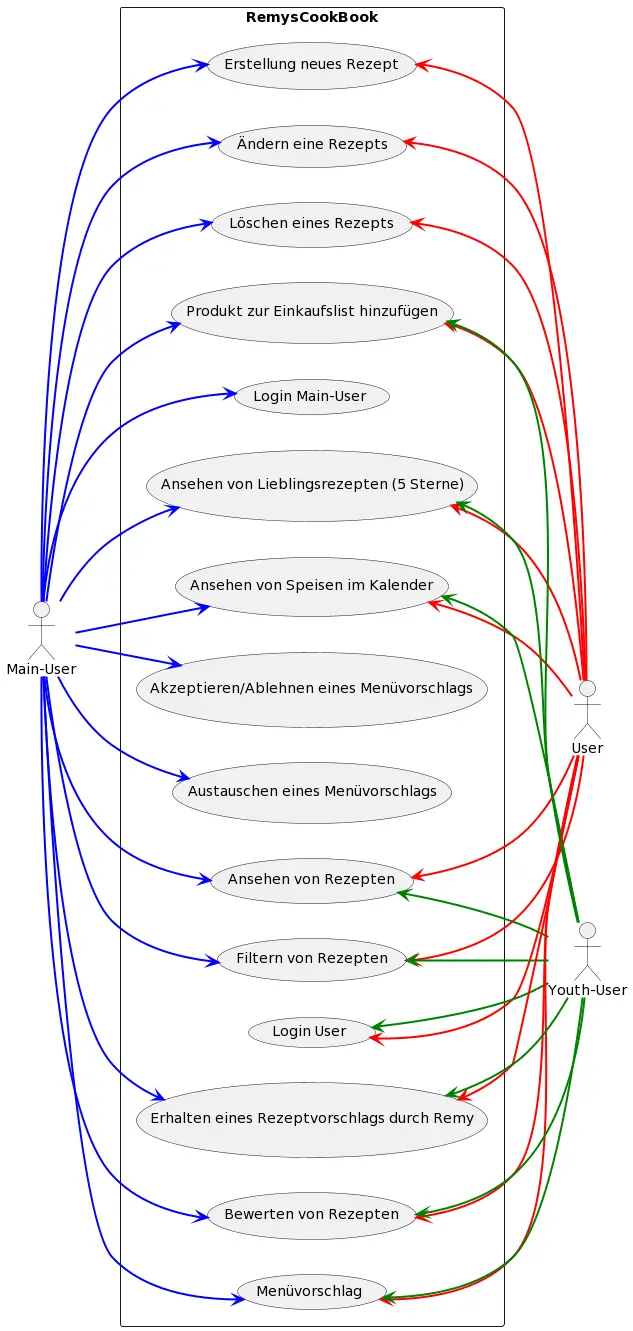
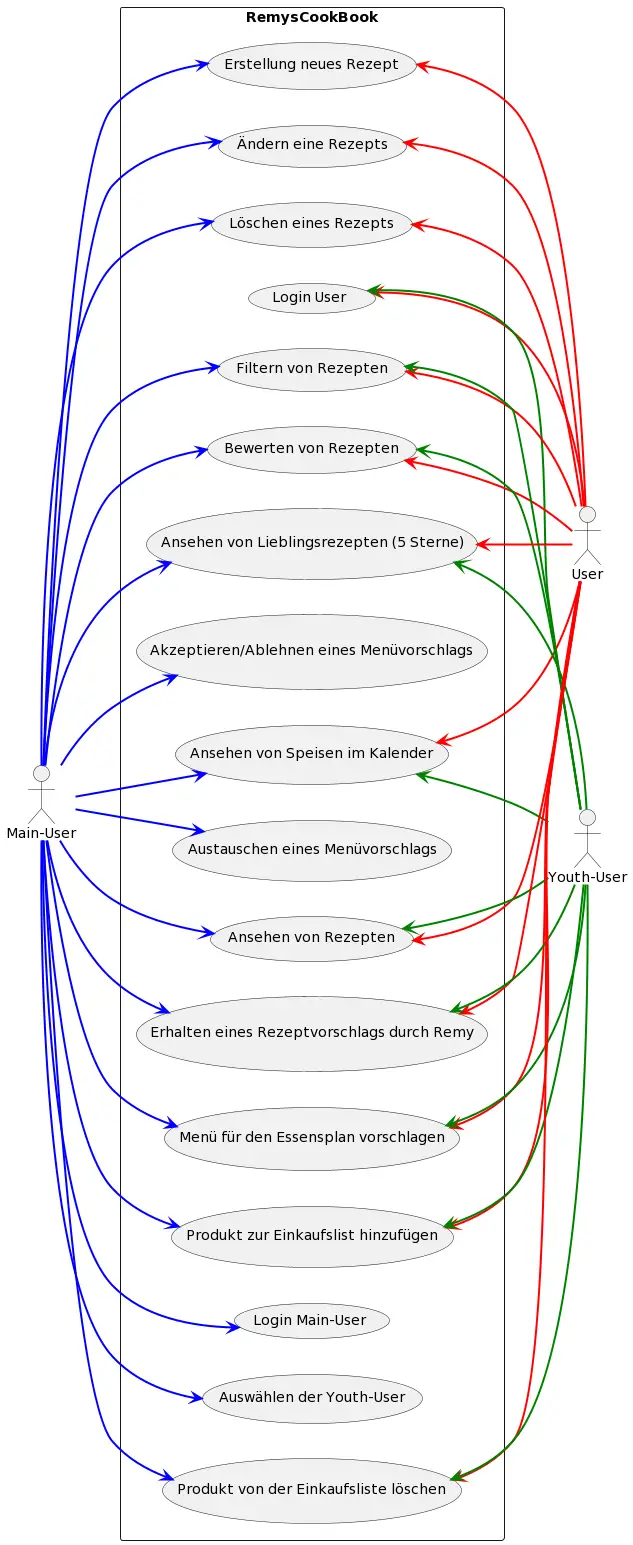
changed description

diff --git a/README.md b/README.md
@@ -34,13 +34,13 @@ Wir möchten unser Projekt so ähnlich aufbauen wie "myRecipe". Jedoch gefallen 
 ---
 Unser Ziel ist es Familien das Planen und Organisieren ihres Essensplan zu erleichtern. In unserem Anwendungsprogramm sind alle Features vereint.
 
-Es verfügt über eine Kalenderansicht, bei der man mit Hilfe eines Buttons Gerichte für den Tag vorschlagen kann (Request), die der Main-User bestätigt oder nicht. Falls diese Speise noch nicht in der Rezeptliste vorhanden ist, kann es einfach hinzugefügt und mit Sternen von 1- 5 bewertet werden. Die Rezepte sind auch unterteilbar in Kategorien. Favoriten werden mit einem Herz markiert und sind in einer eigenen Liste wieder auffindbar.
+Es verfügt über eine Kalenderansicht, bei der man mit Hilfe eines Buttons Gerichte für den Tag vorschlagen kann , die der Main-User bestätigt, austauscht oder ablehnt. Falls diese Speise noch nicht in der Rezeptliste vorhanden ist, kann es einfach hinzugefügt und mit Sternen von 1- 5 bewertet werden. Die Rezepte sind auch unterteilbar in Kategorien, also filterbar. Als Favoriten werden Rezepte, die mit 5 Sternen bewerten wurden, gespeicher. Diese sind in einer eigenen Liste wieder auffindbar.
 
 Falls Zutaten von dem gewünschten ausgewählten Rezept in einem Haushalt fehlen, kann ganz einfach eine Einkaufsliste, ähnlich wie eine Todo-Liste, erstellt werden. 
 
 Unsere Benutzerverwaltung unterteilt sich in zwei Bereiche. Einen Main-User, welcher den Plan erstellt und Side-Users, die mit einer Fam-ID in den Essensplan einsteigen können. Jedes Mitglied kann Gerichte vorschlagen, jedoch kann nur der Main-User den Essenswunsch schlussendlich festlegen. Er muss es sozusagen bestätigen.
 
-Die Anwendung enthält außerdem ein Maskottchen, das die Benutzer durch die App leitet. Tipps sind durch Klicken auf die Figur erhältlich. Außerdem kann es für die Benutzer random Rezepte vorschlagen, die abgelehnt oder bestätigt werden können. Der Button sieht aus wie ein Glücksrad. 
+Die Anwendung enthält außerdem ein Maskottchen, das die Benutzer durch die App leitet. Menüvorschläge sind durch Klicken auf die Figur erhältlich. 
 
 
 ![MindMap](./pictures/MindMap.png)
@@ -52,15 +52,18 @@ Die Anwendung enthält außerdem ein Maskottchen, das die Benutzer durch die App
 #### 2.1.1. Use Case Diagramm 
 <img src="./pictures/ucd.webp">
 
-- **Main-User:** erstellt den Familien-Account und verwaltet den Kalender mit den Request. Er kann die Speisen akzeptieren und zum Essensplan hinzufügen und verteilt die Rechte an die Youth-User. Außerdem verfügt er über die generellen Rechte wie der Side-User. 
+- **Main-User:** erstellt den Familien-Account und verwaltet den Kalender mit den Menüvorschlägen. Er kann die Speisen akzeptieren und zum Essensplan hinzufügen, ablehnen oder mit einem anderen Vorschlag austauschen. Er kann auch die Youth-User auswählen. Außerdem verfügt er über die generellen Rechte. 
 - **Side-User:** besitzt die generellen Rechte: 
-  - sieht den Kalender
-  - Einkaufsliste bearbeiten (Produkte hinzufügen und löschen)
+  - sieht den Kalender/Rezepte
+  - kann ein Produkt zur Einkaufsliste hinzufügen/löschen 
   - Bearbeiten von Rezepten:
     - hinzufügen
-    - bewerten (Sternen)
-    - abspeichern als Favorit (Herz)
-- **Youth-User:** sieht den Kalender und kann einen Request mit dem gewünschten Produkt, welches er zur Einkaufsliste hinzufügen will, an den Main-User senden. Dies gilt auch für das Hinzufügen eines Menüs zum Essensplan. Er besitzt trotzdem die Rechte um Rezepte zu bewerten und abzuspeichern als Favorit. 
+    - bewerten ( 1-5 Sterne)
+  - Menüvorschlag von Remy erhalten
+  - Rezepte nach einer Kategorie filtern
+- **Youth-User:** 
+  Er besitzt die generellen Rechte ausgenommen der Erstellung, das Ändern und Löschen eines Rezepts.
+  
 ### 2.2. Use Case Account-Erstellung
 
 #### 2.2.1 GUI-Design
